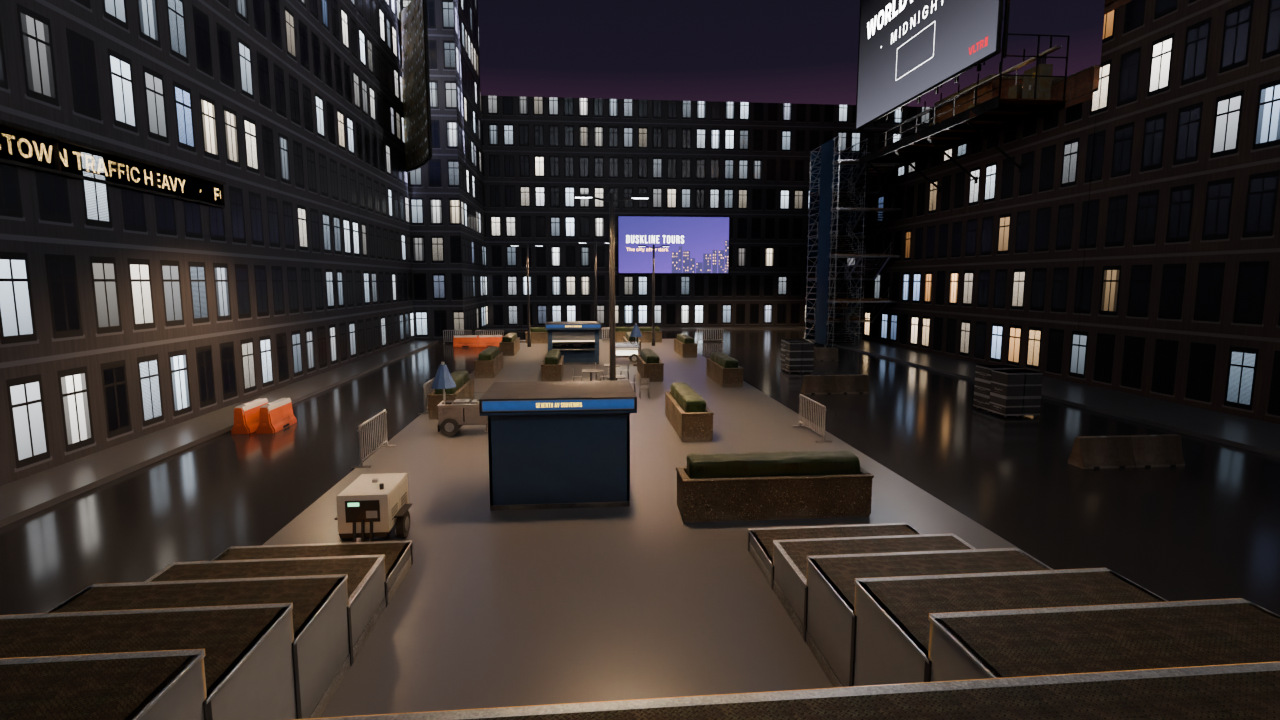
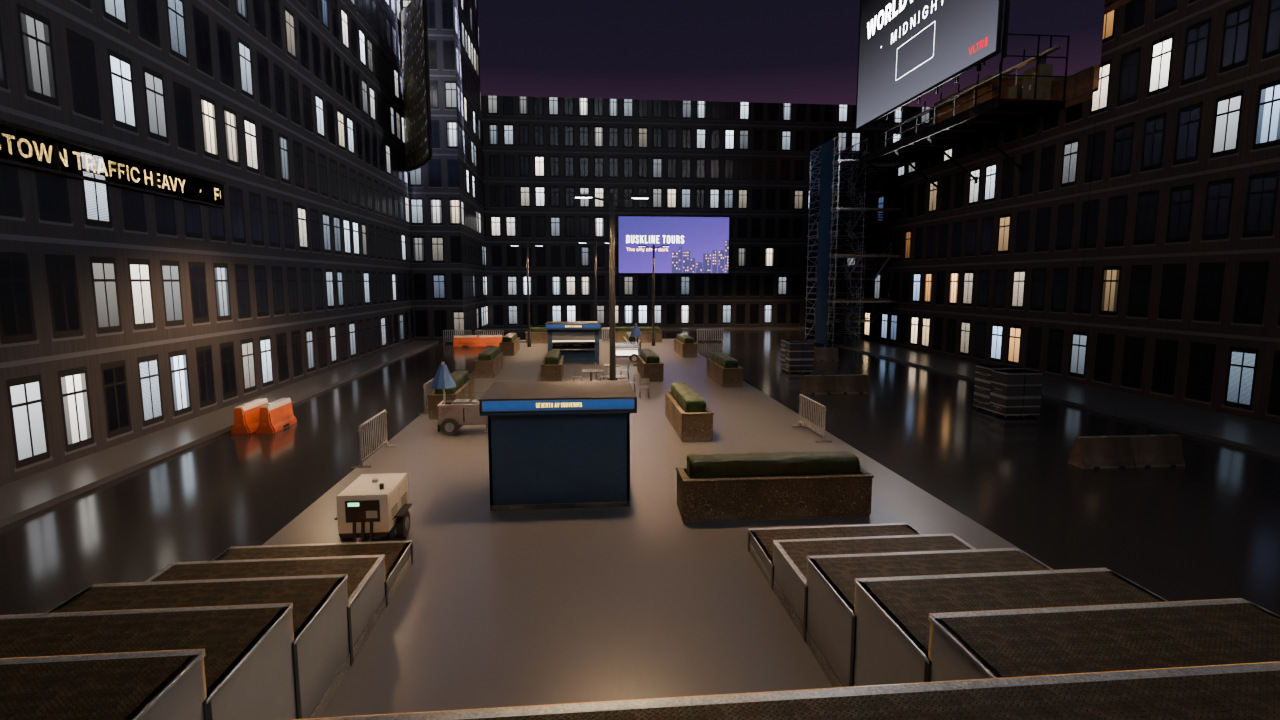
Maps review fixes: street surface and dressing for Canal Street, prop LODs (start view 1.18 M to 0.88 M), the hydrant placed, pegboard back and produce colours, Midtown facade windows and horizon
Claude-Session: https://claude.ai/code/session_01HkcHdD7NbyxwnFfuuSpZY4

diff --git a/docs/unreal/maps/chinatown_art.md b/docs/unreal/maps/chinatown_art.md
@@ -47,8 +47,8 @@ on the east wall over the one front without another sign). Fronts lane D gave no
 counters with tank and scale, vendor tables with goods, garment rails, crates, pallets, cones, drums, boxes, newspaper boxes,
 lamps (arm over the roadway), card tables with stools, benches, hoops, signposts, meters, skylights, condensers. Each tiles
 along its collider's long side; the worst overhang is 1.05 m (a 3 m jersey barrier on a shorter box). Not placed, with
-the reason in `unmappedProps` in the placements file: the vehicles (their lane), hydrants (46k triangles: needs a LOD),
-planters (42k), dumpling and hotpot carts, the bakery, kitchen, dub-room, workshop and banquet interior props (no meshes
+the reason in `unmappedProps` in the placements file: the vehicles (their lane), hydrants (placed since round 2b, see 4a),
+planters (42k and 1.2 m against 0.8 x 0.6 colliders), dumpling and hotpot carts, the bakery, kitchen, dub-room, workshop and banquet interior props (no meshes
 yet), the fruit stand (2.4 m against a 0.8 m collider), small trash bags, standpipes, bike racks, chair stacks, grease bins,
 roof vents and fans, antenna, dig fences, road plates, sandwich boards.
 
@@ -78,20 +78,46 @@ above), atlas, **fit** (0 unexplained), **stretch** (0 scaled), **signs** (32 of
 meshes, none unknown), **views**, block (Block files unchanged); with `--build`: validation (195 assets, 0 failing), budgets,
 thin members (none under 34 mm). `tools/levels/check_level.py --level chinatown`: 0 failures. The level data was not changed.
 
-**The worst view** (the start, looking east, every placed piece in the frustum): 3.09 M triangles at LOD0, **1.18 M with the
-far proxies** past 30 m: under the 1.5 M ceiling, 81k over the 1.1 M aim. The north row's share is 413k (at most 0.55 M).
-The largest part is the props: 14 trash cans (6.4k each, 90k), 4 pallet stacks (13k each), 12 stall counters, 24 milk
-crates. LODs for those four (about 60 percent of the overage) bring the view under the aim.
+**The worst view** (the start, looking east, every placed piece in the frustum): 3.11 M triangles at LOD0, **0.88 M with the
+far proxies** past 30 m and the props' LOD1s past 12 m: under the 1.5 M ceiling and **under the 1.1 M aim** (it was 1.18 M).
+The north row's share is 413k (at most 0.55 M).
+
+## 4a. Review fixes (2026-11-26, round 2b)
+
+- **Prop LODs** (`_chinatown_lod.py` PROP_LODS, built by `build_prop_lods`): `<name>_LOD1` for the trash can, stall counter,
+  milk crate, vendor table, cardboard boxes, fish counter, citrus display, clothing rail, dry goods and traffic cone, each
+  about a quarter of its triangles, switched at 12 m (Unreal: the static mesh's LOD1, same slots). The pallet stack and the
+  dumpster have none: their boards and sheets collapse to slivers under the 34 mm floor. `SM_Prop_CT_Hydrant` is the Block's
+  hydrant collapsed from 46k to 4.5k (same size and pivot, with a 1.1k LOD1) and is now placed on the 4 hydrant colliders.
+  The view counter (`view_triangles`) draws a prop's LOD1 past `PROP_LOD_SWITCH`.
+- **Street surface** (`_chinatown_street_look.py`): the roadway was a mirror. Asphalt and concrete are now procedural surfaces
+  with roughness variation (puddles, polished tyre tracks in the four wheel paths, cracks, grain bump, oil spots; slab
+  joints, damp patches and gum on the concrete), plus the dressing as thin shapes: double yellow centre line, two zebra
+  crossings and stop lines, gutters, a patched utility trench and three asphalt patches, five manholes and six drain
+  inlets, a heaved sidewalk seam. The same 43 rows in web coordinates are in `tools/levels/data/street_dressing_chinatown.json`
+  (paint, gutters and patches are decals, manholes and drains cast-iron pieces: the Unreal side is a decal actor per row;
+  nothing the game loads reads it). The look is in `ct_canal_start`, `ct_canal_east` and `ct_mott`. Not done: traffic. The
+  vehicles are another lane's (sedan, van, taxi, box truck stay in `unmappedProps`), as are tree pits and bollards (no
+  collider names them), steam (an effect) and the hotpot cart.
+- **The orange slab** was the back of the cap pegboard (`SM_Prop_CT_Goods_Caps`, a blank plywood board seen from the street
+  side). It now has a timber frame, a mid rail, braces and two tags on the back. The produce displays had one flat fruit
+  colour on a same-coloured false bottom: the bottom is now a dark crate liner and the fruit mixes two or three colours.
+- **The alley's block wall**: the scale is right (the catalogue sets the painted block at 16 x 8 in units, 406 x 203 mm; real
+  CMU is larger than brick, so it reads big beside the red brick). The moulded look was the scan's heavy relief: the market hall's
+  block now uses half the normal strength and more macro dirt, and the alley floor is the new surface instead of a mirror. Not
+  done: alley wall dressing (downpipes, cables, stains) has no collider or prop name in the level data; it is an art pass.
+- The checks after these changes: `_chinatown_check.py` all pass (207 assets, 0 GLBs missing, views 0.88 M), with `--build` 0
+  failing, budgets met and no thin members; `tools/levels/check_level.py --level chinatown` 0 failures.
 
 ## 5. Pictures
 
 `ct_canal_start`, `ct_canal_east`, `ct_mott`, `ct_square`, `ct_alley`, `ct_yard`: night, wet, from the player's eye, 1280 x 720,
-12 samples. The ground is a flat stand-in made from the level's `ground.surfaces`; props whose meshes belong to the Block's
-families (vehicles, hydrants) are not in the pictures.
+24 samples (round 2b). The ground is made from the level's `ground.surfaces` with the street surface of 4a; vehicles are not in
+the pictures.
 
 ## 6. Open
 
-- LODs for the trash can, pallet stack, stall counter and milk crate (the 1.1 M aim); the hydrant (46k) and planter (42k) LODs.
+- A light planter, the pallet stack's and the dumpster's LODs (they need a different reduction than a collapse).
 - The interior props (bakery, kitchen, dub room, workshop, banquet tables, stage), the carts, the stone lions, the vehicles.
 - The decals (graffiti, the alley stencil) and the near-ground wear on the new faces.
 - The Unreal side: import, the placement actors from `placements_chinatown.json`, the far proxies as LOD1 / HLOD, a look at the

diff --git a/docs/unreal/maps/midtown_art.md b/docs/unreal/maps/midtown_art.md
@@ -205,6 +205,24 @@ south over the planters, kiosks, carts, cafe tables, LED poles and barriers), `m
 door: the desk with the program feed on its monitors, the racks, the slot onto the court), and `mt_roofs` re-rendered with
 the refitted towers and units.
 
+## 8. Review fixes (2026-11-26, round 2b): facade windows and the horizon
+
+The review found the square's buildings read as flat white window rectangles on near-black masses, and a hard black horizon
+under a flat magenta sky. Both are in the look-dev stand-ins (`_midtown_preview.py`), not in a built asset: the Midtown facade
+tables are still unbuilt (section 6), so this is the **specification the facade material must match**.
+
+- **Facade windows** (`window_grid`): a 1.55 x 3.1 m bay with a frame, a recessed pane, a mullion and a transom, a stone sill
+  and a storey ledge (a bump of 8 cm for the pane, 4 cm for the frame, ledge and sill out); each window has its own state
+  from its snapped position: lit or not (24 percent of the masses, 34 percent of the towers), a brightness with a long tail of
+  dim windows (0.12 to 1.0, squared), a colour from tungsten orange through warm white and fluorescent to TV blue (towers lean
+  fluorescent), a ceiling gradient (brighter at the top of the pane), and a covering (38 percent venetian blinds, 22 percent
+  curtains, the rest bare glass). Unlit panes are dark reflective glass (roughness 0.28). The wall drifts in tint and has
+  vertical grime. In Unreal the same is a master material with per-window id from the facade's world position.
+- **The horizon**: the stand-in ground is 1 km wide and the sky below the horizon is the haze colour of the glow instead of
+  near-black, so the edge disappears. The sky itself is still a gradient: a skyline of far towers and a light haze volume are
+  still to do (the far buildings are part of the unbuilt facade tables).
+- Pictures `mt_plaza` and `mt_roofs` re-rendered at 24 samples. `_midtown_check.py` all pass; no asset changed.
+
 ## 6. Hand-off and what is still open
 
 - Hand-off: `art/out/maps-midtown.tar` with its sha256 and file list in `art/out/midtown/ARCHIVE.json` (the GLBs, the five face
